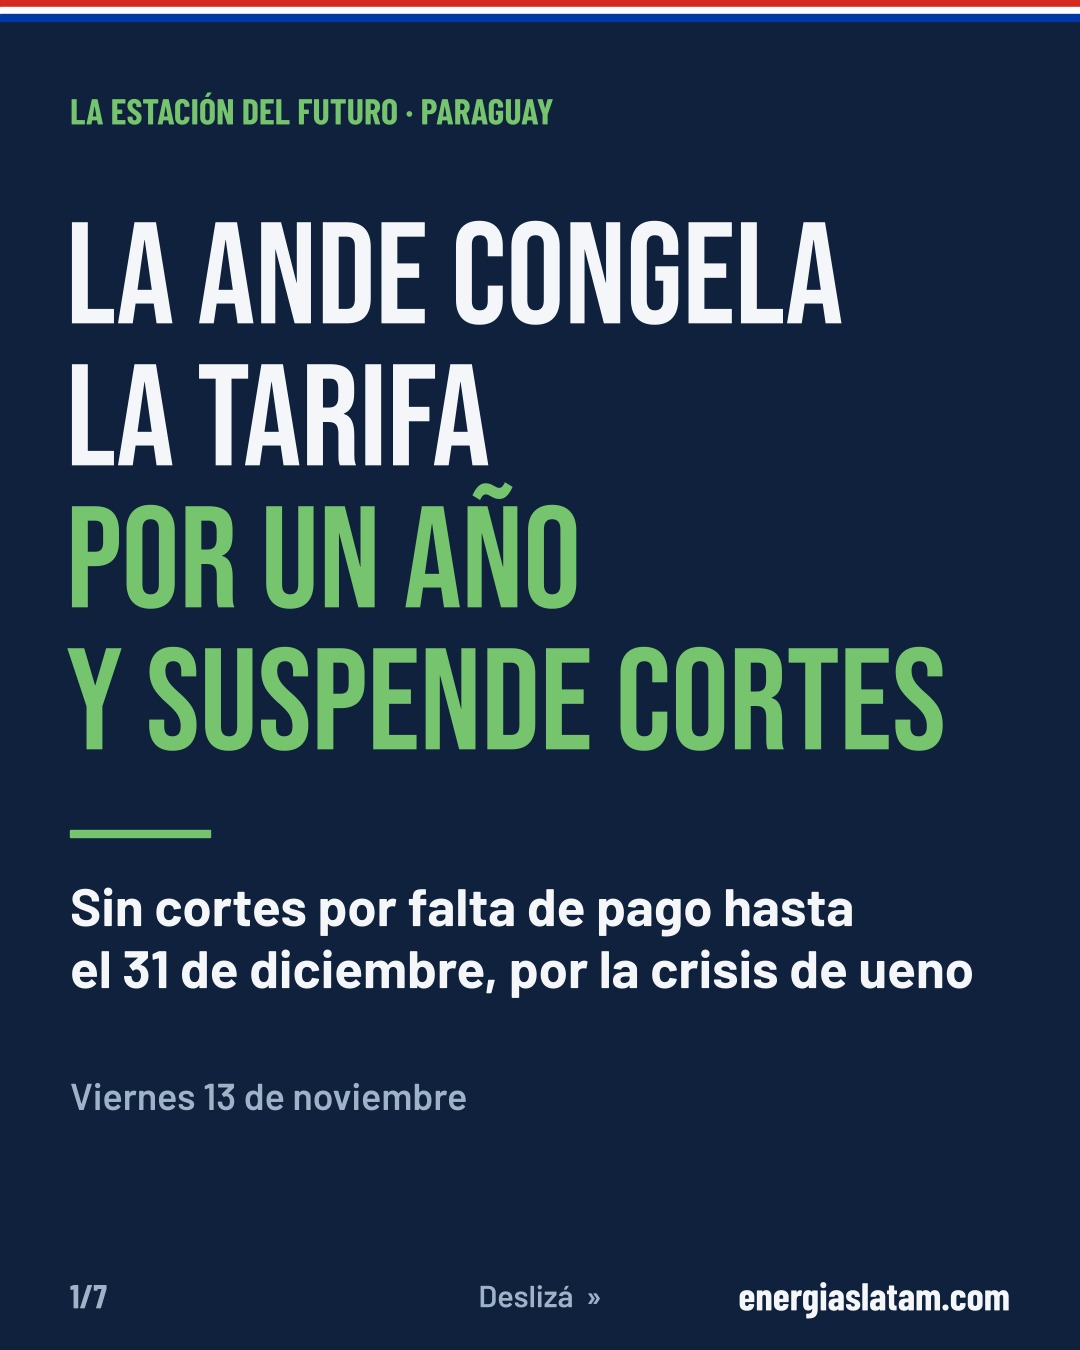
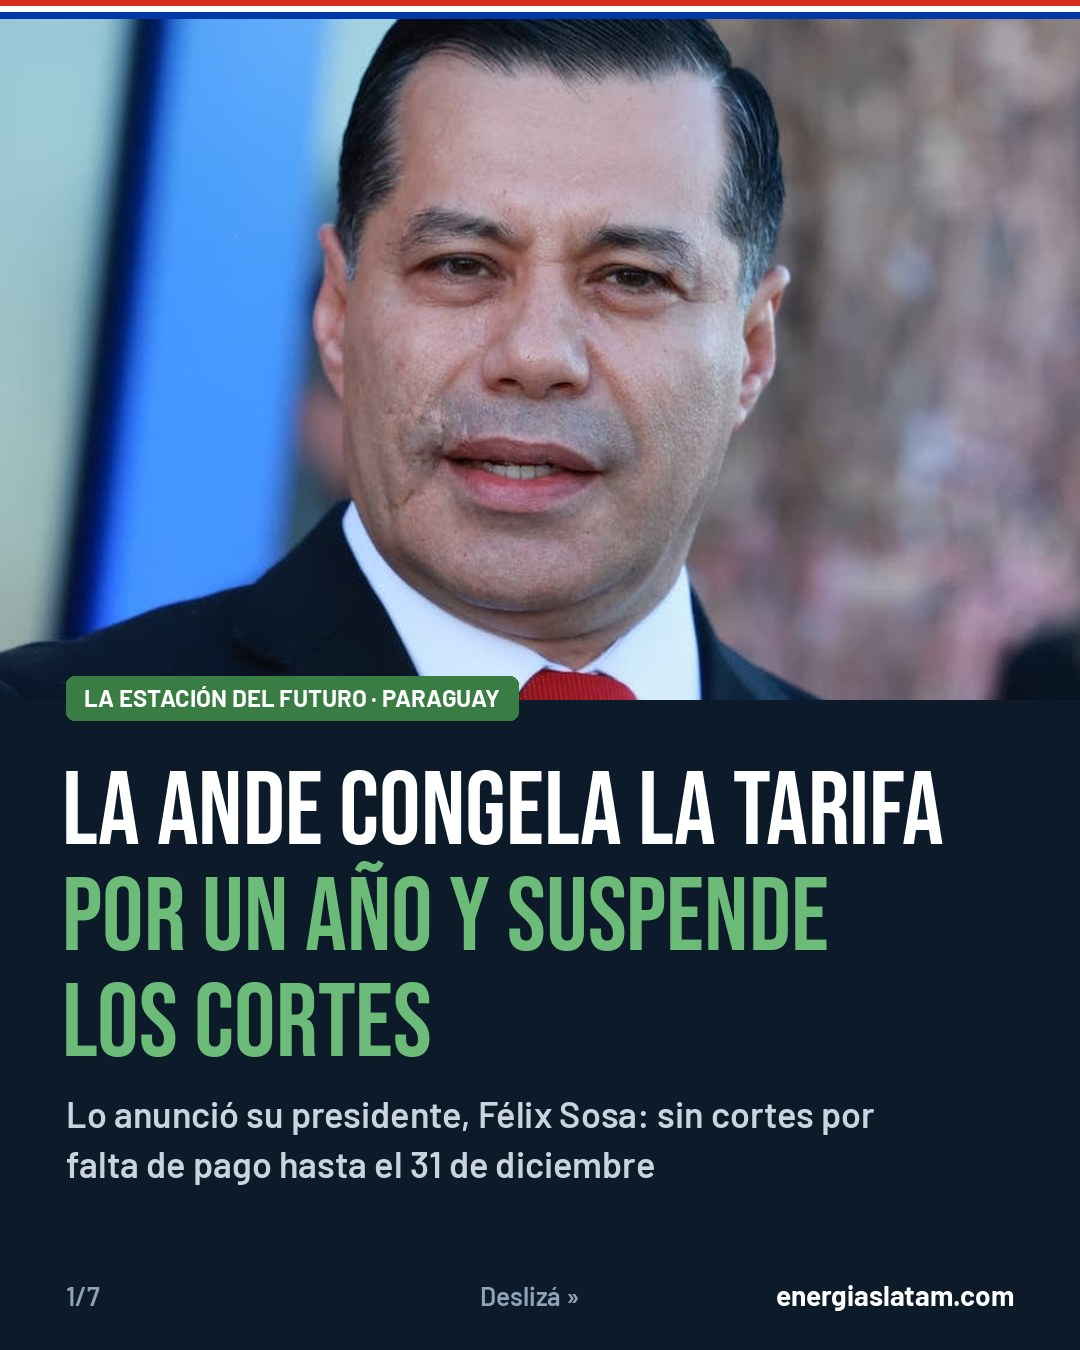
ANDE: foto de Félix Sosa en portada y carrusel
Claude-Session: https://claude.ai/code/session_01HHGRFrapr8AXyd2C4Baz1m

diff --git a/notas/2026-11-13-ande-congela-tarifa-suspende-cortes-ueno.html b/notas/2026-11-13-ande-congela-tarifa-suspende-cortes-ueno.html
@@ -1,8 +1,10 @@
-<figure><img src="img/2026-11-13-ande-congela-tarifa-suspende-cortes-ueno-1.jpg" alt="La ANDE no ajustará su tarifa por al menos un año, suspende los cortes por falta de pago hasta el 31 de diciembre y permite fraccionar deudas en 24 cuotas sin intereses">
-<figcaption>El paquete de la ANDE tras la crisis de ueno: tarifa quieta por un año y sin cortes por mora hasta fin de diciembre.</figcaption></figure>
+<figure><img src="img/2026-11-13-ande-congela-tarifa-suspende-cortes-ueno-3.jpg" alt="Félix Sosa, presidente de la ANDE, en el anuncio de las medidas: tarifa sin reajustes por un año y sin cortes por falta de pago hasta el 31 de diciembre">
+<figcaption>Félix Sosa, presidente de la ANDE, anunció las medidas en conferencia de prensa.</figcaption></figure>
 <p>La factura de luz no va a subir por al menos un año. El presidente de la ANDE, Félix Sosa, anunció este jueves que la tarifa de distribución no tendrá reajustes durante ese plazo y que, hasta el 31 de diciembre, no habrá cortes por falta de pago. Las medidas son parte del paquete del Gobierno por la crisis de ueno bank y alcanzan a casi todos los clientes, no solo a los que tenían cuenta en ese banco.</p>
 <p>"No vamos a dejar sin luz a las familias paraguayas por falta de pago", dijo el presidente Pedro Alliana al presentar las medidas.</p>
 <h2>Qué anunció la ANDE</h2>
+<figure><img src="img/2026-11-13-ande-congela-tarifa-suspende-cortes-ueno-1.jpg" alt="La ANDE no ajustará su tarifa por al menos un año, suspende los cortes por falta de pago hasta el 31 de diciembre y permite fraccionar deudas en 24 cuotas sin intereses">
+<figcaption>El paquete de la ANDE tras la crisis de ueno: tarifa quieta por un año y sin cortes por mora hasta fin de diciembre.</figcaption></figure>
 <ul><li><b>Tarifa sin cambios:</b> no habrá reajustes durante al menos un año.</li><li><b>Sin cortes por mora:</b> desde el 12 de noviembre hasta el 31 de diciembre, para todos los clientes salvo 35 de consumo intensivo especial.</li><li><b>Deudas en cuotas:</b> hasta 24 cuotas, sin intereses ni recargo por mora, y la primera se paga con la factura siguiente. Es solo para clientes de baja tensión, que según Sosa son el 97 % del total.</li><li><b>Sin recargos:</b> quien se ponga al día dentro del período no paga el recargo por mora de los meses atrasados.</li></ul>
 <p>Sosa explicó por qué el beneficio es para todos: es muy difícil vincular a cada afectado por ueno con su suministro. Cerca del 70 % de la recaudación de la ANDE es digital y alrededor del 19 % de los clientes pagaba a través de ese banco.</p>
 <h2>Si pagaste y no figura</h2>

diff --git a/revision/an13_photo.py b/revision/an13_photo.py
@@ -1,0 +1,32 @@
+from PIL import Image, ImageDraw, ImageFont
+P='/mnt/user-data/attachments/ba48a484-4b4b-549d-9611-4438eea46fb5/19f50268-image.jpg'
+R='/home/claude/larevista-notas/img/'; I='2026-11-13-ande-congela-tarifa-suspende-cortes-ueno'
+F=lambda n,s: ImageFont.truetype(n,s)
+W,H=1600,1067; im=Image.new('RGB',(W,H),'#0C1A29'); ph=Image.open(P).convert('RGB')
+s=H/ph.height; ph=ph.resize((round(ph.width*s),H),Image.LANCZOS); x=(ph.width-760)//2+20; im.paste(ph.crop((x,0,x+760,H)),(0,0)); d=ImageDraw.Draw(im)
+for i,c in enumerate(('#D52B1E','#FFFFFF','#0038A8')): d.rectangle((0,i*6,W,i*6+6),fill=c)
+X=830; BK=F('Barlow-Bold.ttf',24); k='PARAGUAY · ELECTRICIDAD'
+d.rounded_rectangle((X,110,X+d.textlength(k,font=BK)+36,154),8,fill='#3A7D44'); d.text((X+18,117),k,font=BK,fill='white')
+B=F('BebasNeue-Regular.ttf',92); y=200
+for l,c in [('LA ANDE CONGELA','white'),('LA TARIFA POR','white'),('UN AÑO Y SUSPENDE','#6DBB78'),('LOS CORTES','#6DBB78')]:
+    d.text((X-4,y),l,font=B,fill=c); y+=96
+d.rectangle((X,y+30,X+140,y+36),fill='#6DBB78'); y+=70
+for l in ['Sin cortes por falta de pago hasta el 31 de','diciembre y deudas en 24 cuotas sin intereses']:
+    d.text((X,y),l,font=F('Barlow-SemiBold.ttf',31),fill='#C9D4DF'); y+=44
+y+=50; d.text((X,y),'FÉLIX SOSA',font=F('BebasNeue-Regular.ttf',50),fill='white'); d.text((X,y+56),'Presidente de la ANDE',font=F('Barlow-SemiBold.ttf',28),fill='#8FA3B8')
+bs=F('BebasNeue-Regular.ttf',40); d.text((X,985),'LA ESTACIÓN',font=bs,fill='white'); d.text((X+d.textlength('LA ESTACIÓN ',font=bs),985),'DEL FUTURO',font=bs,fill='#6DBB78')
+t='energiaslatam.com'; f=F('Barlow-SemiBold.ttf',24); d.text((W-60-d.textlength(t,font=f),995),t,font=f,fill='white')
+im.save(R+I+'-3.jpg',quality=88)
+# portada carrusel 1080x1350
+W,H=1080,1350; c=Image.new('RGB',(W,H),'#0C1A29'); ph=Image.open(P).convert('RGB'); s=W/ph.width; ph=ph.resize((W,round(ph.height*s)),Image.LANCZOS); c.paste(ph.crop((0,60,W,760)),(0,0)); d=ImageDraw.Draw(c)
+for i,cc in enumerate(('#D52B1E','#FFFFFF','#0038A8')): d.rectangle((0,i*6,W,i*6+6),fill=cc)
+k='LA ESTACIÓN DEL FUTURO · PARAGUAY'; d.rounded_rectangle((66,676,66+d.textlength(k,font=BK)+36,720),8,fill='#3A7D44'); d.text((84,683),k,font=BK,fill='white')
+B=F('BebasNeue-Regular.ttf',104); y=750
+for l,cc in [('LA ANDE CONGELA LA TARIFA','white'),('POR UN AÑO Y SUSPENDE','#6DBB78'),('LOS CORTES','#6DBB78')]:
+    d.text((62,y),l,font=B,fill=cc); y+=106
+y+=24
+for l in ['Lo anunció su presidente, Félix Sosa: sin cortes por','falta de pago hasta el 31 de diciembre']:
+    d.text((66,y),l,font=F('Barlow-SemiBold.ttf',36),fill='#C9D4DF'); y+=50
+f=F('Barlow-SemiBold.ttf',26); d.text((66,1280),'1/7',font=f,fill='#8FA3B8'); d.text((480,1280),'Deslizá »',font=f,fill='#8FA3B8'); t='energiaslatam.com'; d.text((W-66-d.textlength(t,font=F('Barlow-Bold.ttf',28)),1278),t,font=F('Barlow-Bold.ttf',28),fill='white')
+c.save(R+'social/'+I+'-c1.jpg',quality=88)
+a=im.resize((900,600)); b=c.resize((480,600)); s=Image.new('RGB',(1380,600)); s.paste(a,(0,0)); s.paste(b,(900,0)); s.save('/tmp/claude-0/-home-claude/ba48a484-4b4b-549d-9611-4438eea46fb5/scratchpad/ph13.jpg')
